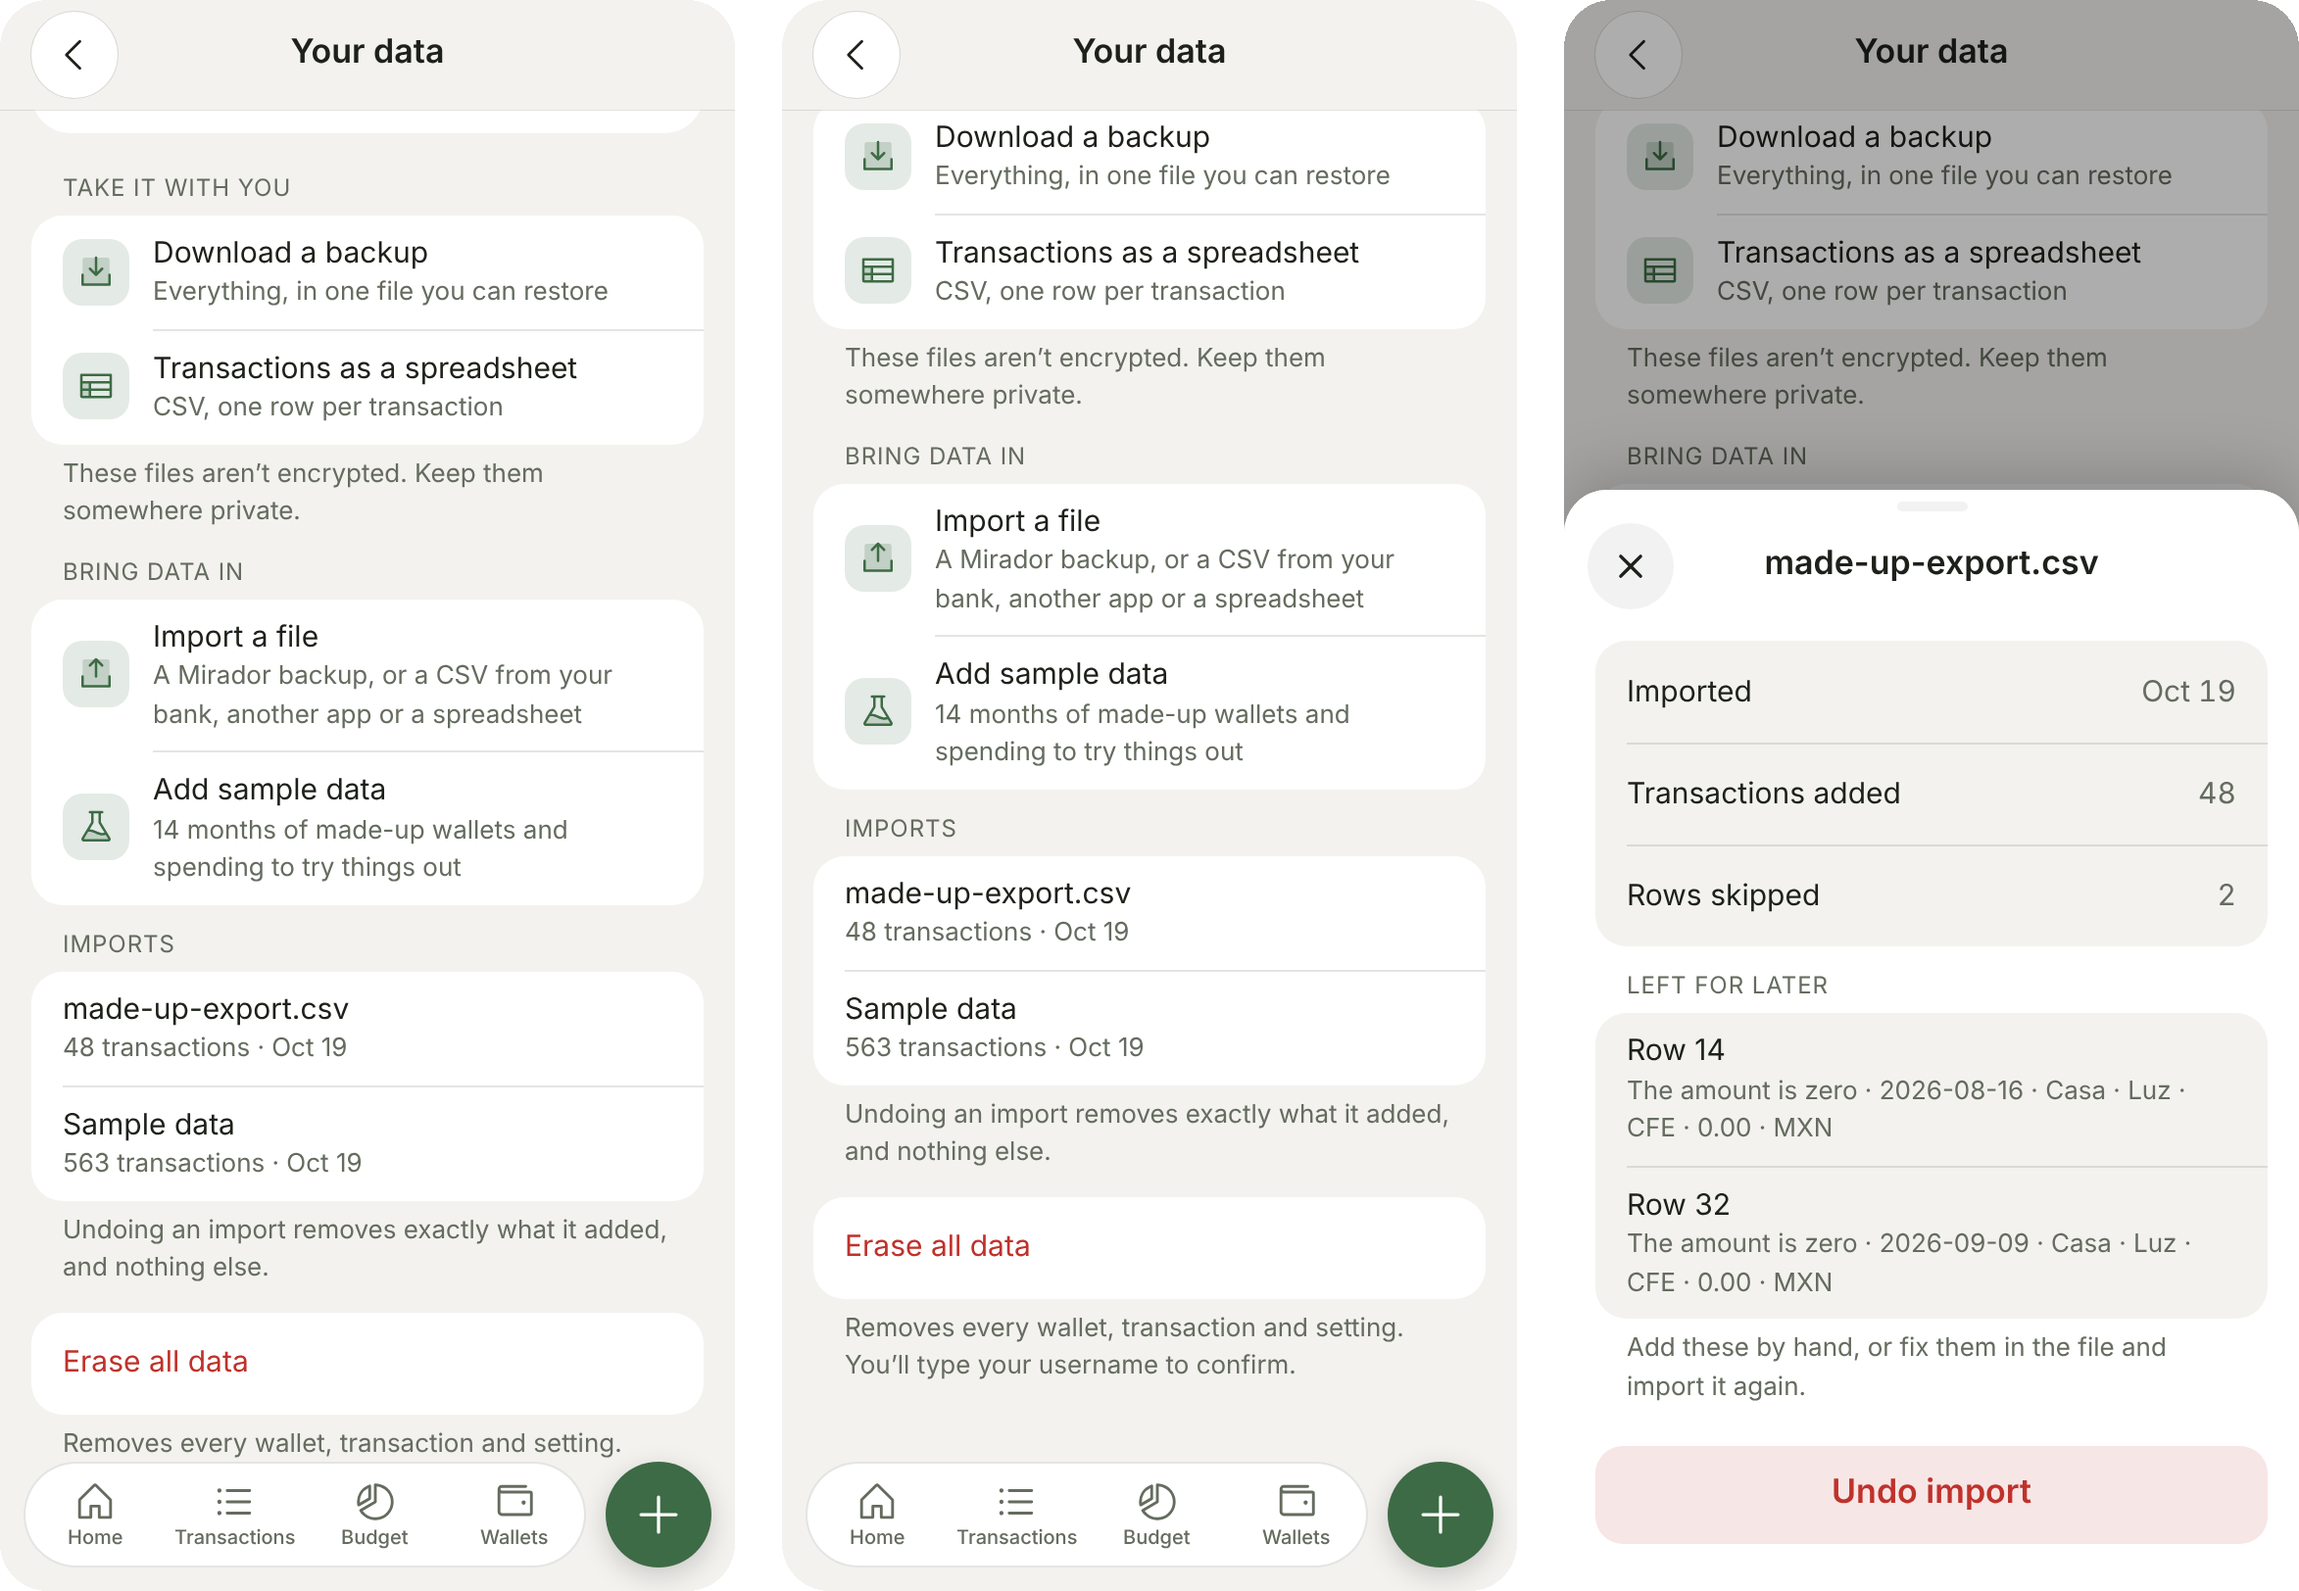
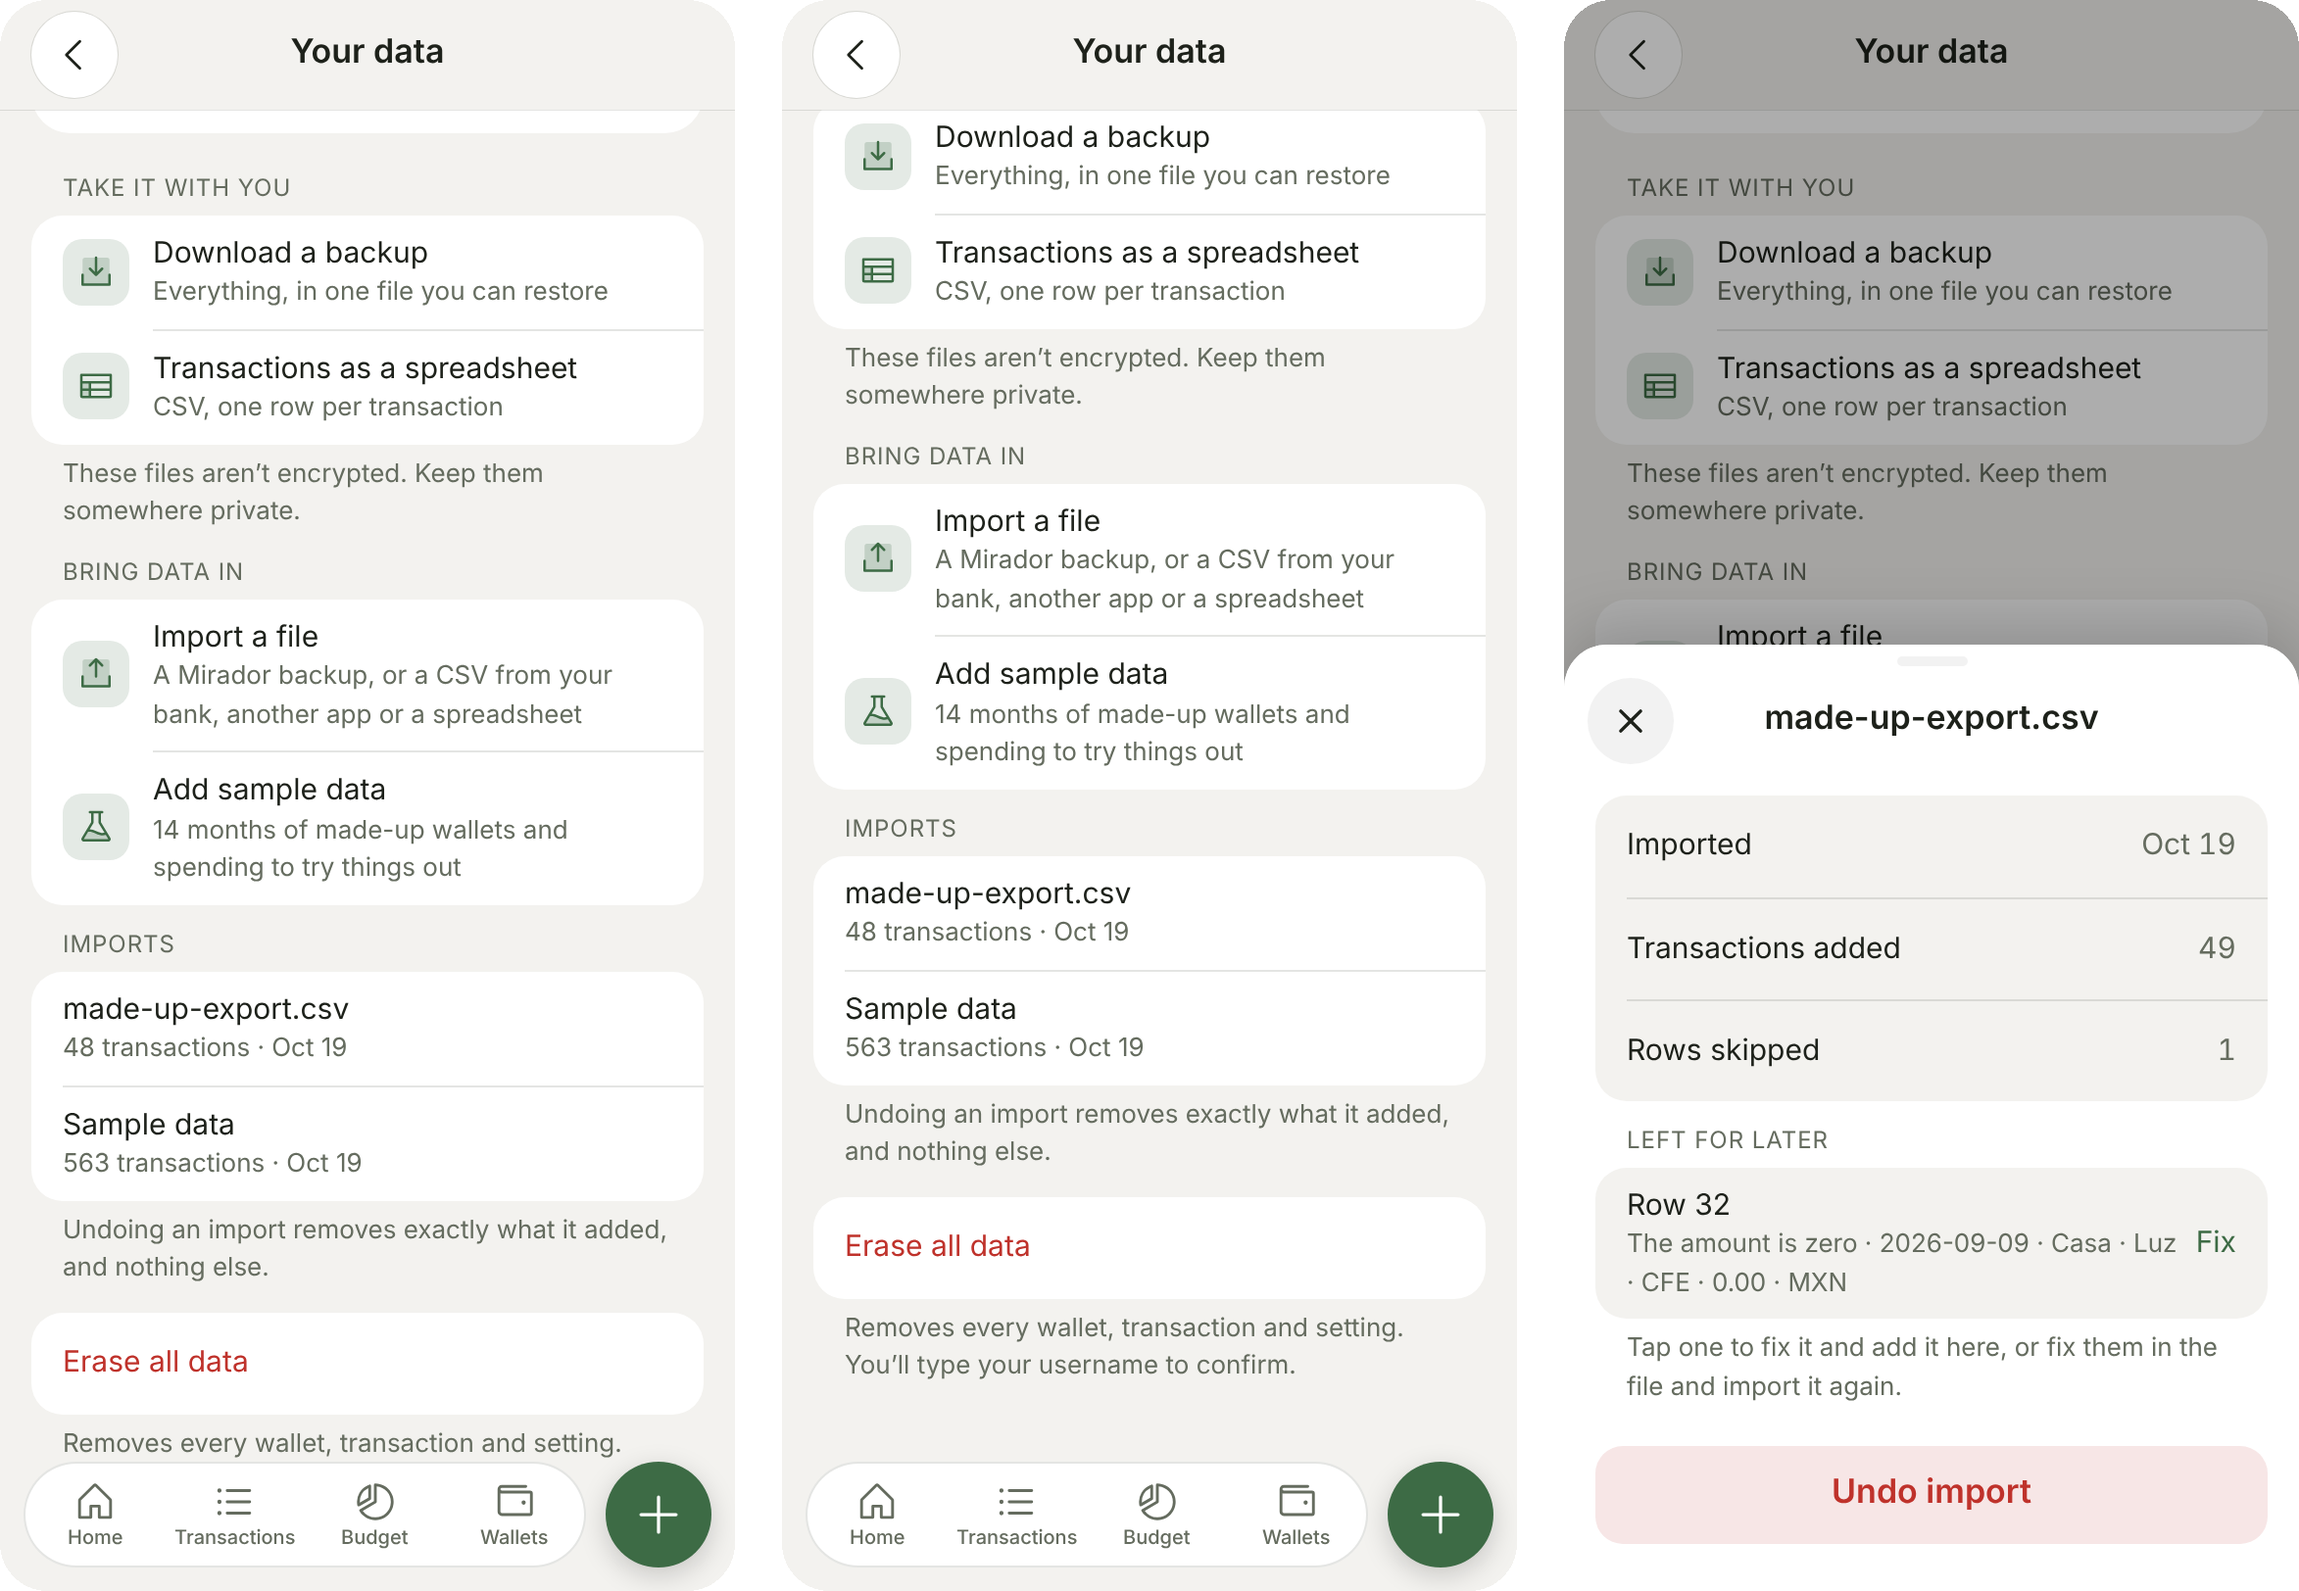
feat(import): fix rows an import left for later from the import itself
Each row under "Left for later" opens the transaction form filled in
with what could be read (date, amount, wallet, category, note). Saving
adds it to that import, so undoing the import removes it too, and takes
it off the list.

Refs: IMP-31, IMP-33

diff --git a/apps/web/src/features/data/data-screen.tsx b/apps/web/src/features/data/data-screen.tsx
@@ -29,8 +29,9 @@ import { List, ListButtonRow } from '../../components/ui/list'
 import { Page } from '../../components/ui/page'
 import { Sheet } from '../../components/ui/sheet'
 import { formatShortDate, useLocale } from '../../lib/format'
+import { EntrySheet } from '../transactions/entry-sheet'
 import { newId, useLedger, useSaveRecords } from '../wallets/use-ledger'
-import { BatchSheet, EraseSheet, RestoreSheet } from './data-sheets'
+import { BatchSheet, EraseSheet, RestoreSheet, type WaitingRow } from './data-sheets'
 import { buildChanges, currencyOf, type ImportFile } from './import-model'
 import { DoneStep, type ImportDone, ImportSheet } from './import-sheet'
 import { downloadSpreadsheet, useDownloadBackup, useUndoImport } from './use-data'
@@ -52,6 +53,8 @@ export function DataScreen() {
   const [again, setAgain] = useState<{ file: ImportFile; date: string } | null>(null)
   const [archive, setArchive] = useState<{ name: string; result: ArchiveResult } | null>(null)
   const [batchId, setBatchId] = useState<string | null>(null)
+  // IMP-33: a row an import left for later, opened in the transaction form.
+  const [fixing, setFixing] = useState<{ batchId: string; row: WaitingRow } | null>(null)
   const [erasing, setErasing] = useState(false)
   const [unreadable, setUnreadable] = useState(false)
   const [sampleDone, setSampleDone] = useState<ImportDone | null>(null)
@@ -322,8 +325,26 @@ export function DataScreen() {
             batch={ledger.batches.find((batch) => batch.id === batchId) ?? null}
             pending={undo.isPending}
             onUndo={undoBatch}
+            onFix={(row) => {
+              if (batchId) setFixing({ batchId, row })
+              setBatchId(null)
+            }}
             onClose={() => {
               setBatchId(null)
+            }}
+          />
+          <EntrySheet
+            open={fixing !== null}
+            mode={{
+              kind: 'new',
+              source: 'import',
+              seed: fixing ? waitingSeed(fixing.row) : {},
+              ...(fixing ? { fromImport: { batchId: fixing.batchId, line: fixing.row.line } } : {}),
+            }}
+            onClose={() => {
+              // Back to the import, to fix the next one.
+              setBatchId(fixing?.batchId ?? null)
+              setFixing(null)
             }}
           />
           <EraseSheet
@@ -336,4 +357,16 @@ export function DataScreen() {
       )}
     </Page>
   )
+}
+
+/** What the form starts with for a row left for later: whatever could be read. */
+function waitingSeed(row: WaitingRow) {
+  return {
+    type: row.amount !== undefined && row.amount > 0 ? ('income' as const) : ('expense' as const),
+    ...(row.amount !== undefined ? { amount: Math.abs(row.amount) } : {}),
+    ...(row.date ? { date: row.date } : {}),
+    ...(row.walletId ? { walletId: row.walletId } : {}),
+    ...(row.categoryId ? { categoryId: row.categoryId } : {}),
+    ...(row.note ? { note: row.note } : {}),
+  }
 }

diff --git a/apps/web/src/features/transactions/entry-sheet.tsx b/apps/web/src/features/transactions/entry-sheet.tsx
@@ -1,4 +1,6 @@
 import {
+  importBatchRecord,
+  importBatchRecordType,
   payeeRecord,
   payeeRecordType,
   recurringRecord,
@@ -91,6 +93,8 @@ export type EntryMode =
       source: TransactionSource
       seed?: Partial<EntryDraft>
       repeat?: Repeat
+      /** IMP-33: a row an import left for later, added by hand into that import. */
+      fromImport?: { batchId: string; line: number }
     }
   | { kind: 'edit'; transaction: Transaction & { kind: EntryType } }
   | { kind: 'series'; recurring: Recurring }
@@ -604,9 +608,19 @@ function EntryForm({
                   : {}),
               }
             : entryFields(entry, mode.kind === 'new' ? mode.source : 'manual', now)
+        const fromImport = mode.kind === 'new' ? mode.fromImport : undefined
+        const batch = fromImport && ledger.batches.find((item) => item.id === fromImport.batchId)
         changes = [
           ...extras(fields),
-          { id, body: transactionBody(transactionRecord.parse(fields)) },
+          {
+            id,
+            body: transactionBody(
+              transactionRecord.parse(batch ? { ...fields, importBatchId: batch.id } : fields),
+            ),
+          },
+          // IMP-33, IMP-35: the row is no longer waiting, and undoing the import
+          // removes it with the rest.
+          ...(fromImport && batch ? [fixedRow(batch, fromImport.line)] : []),
         ]
       }
       save.mutate(changes, {
@@ -1013,7 +1027,7 @@ function EntryForm({
             >
               {t('recurring.skip')}
             </Button>
-          ) : mode.kind === 'new' && !repeating ? (
+          ) : mode.kind === 'new' && !repeating && !mode.fromImport ? (
             // DL-CMP-05: a tinted second action beside the main one.
             <Button
               variant="secondary"
@@ -1162,4 +1176,23 @@ function EntryForm({
       />
     </>
   )
+}
+
+/** An import batch with one row it left for later now added. */
+function fixedRow(batch: Ledger['batches'][number], line: number): RecordChange {
+  const { id, ...data } = batch
+  const waiting = data.waiting.filter((row) => row.line !== line)
+  const added = data.waiting.length - waiting.length
+  return {
+    id,
+    body: recordBody(
+      importBatchRecordType,
+      importBatchRecord.parse({
+        ...data,
+        waiting,
+        imported: data.imported + added,
+        skipped: Math.max(0, data.skipped - added),
+      }),
+    ),
+  }
 }

diff --git a/apps/web/src/features/data/data-sheets.tsx b/apps/web/src/features/data/data-sheets.tsx
@@ -9,7 +9,7 @@ import { Button } from '../../components/ui/button'
 import { ChoiceRow } from '../../components/ui/choice-row'
 import { IconTile } from '../../components/ui/icon-tile'
 import { FileTextIcon } from '../../components/ui/icons'
-import { List, ListRow } from '../../components/ui/list'
+import { List, ListButtonRow, ListRow } from '../../components/ui/list'
 import { Sheet } from '../../components/ui/sheet'
 import { TextField } from '../../components/ui/text-field'
 import { formatShortDate, useLocale } from '../../lib/format'
@@ -214,16 +214,23 @@ export function RestoreSheet({
   )
 }
 
-/** IMP-34, IMP-35: one import, what it did, the rows left for later, and its undo. */
+export type WaitingRow = ImportBatchRecord['waiting'][number]
+
+/**
+ * IMP-34, IMP-35: one import, what it did, and its undo. IMP-33: the rows it left for
+ * later, each opening the transaction form filled in with what could be read.
+ */
 export function BatchSheet({
   batch,
   pending,
   onUndo,
+  onFix,
   onClose,
 }: {
   batch: (ImportBatchRecord & { id: string }) | null
   pending: boolean
   onUndo: (batchId: string) => void
+  onFix: (row: WaitingRow) => void
   onClose: () => void
 }) {
   const { t } = useTranslation()
@@ -255,10 +262,17 @@ export function BatchSheet({
             <>
               <List inset label={t('data.batch.waiting')}>
                 {batch.waiting.slice(0, 50).map((row) => (
-                  <ListRow
+                  <ListButtonRow
                     key={row.line}
+                    tone="text"
                     title={t('data.review.row', { line: number(row.line) })}
                     subtitle={`${t(`data.problems.${row.problem}`)}${row.text ? ` · ${row.text}` : ''}`}
+                    trailing={
+                      <span className="text-[0.9375rem] text-brand">{t('data.batch.fix')}</span>
+                    }
+                    onClick={() => {
+                      onFix(row)
+                    }}
                   />
                 ))}
               </List>

diff --git a/packages/import/src/build.ts b/packages/import/src/build.ts
@@ -198,8 +198,23 @@ export function buildImport(input: BuildInput): BuildResult {
     const { row, status } = item
     const walletId = walletIds.get(item.walletKey)
     if (status.kind === 'unreadable' || !walletId || row.date === null || row.amount === null) {
-      if (status.kind === 'unreadable')
-        waiting.push({ line: row.line, problem: status.problem, text: row.text })
+      if (status.kind === 'unreadable') {
+        const categoryId =
+          (item.categoryKey !== null ? categoryIds.get(item.categoryKey) : undefined) ??
+          item.suggestedCategoryId ??
+          undefined
+        const note = row.note || row.payee
+        waiting.push({
+          line: row.line,
+          problem: status.problem,
+          text: row.text,
+          ...(row.date !== null ? { date: row.date } : {}),
+          ...(row.amount !== null && row.amount !== 0 ? { amount: row.amount } : {}),
+          ...(walletId ? { walletId } : {}),
+          ...(categoryId ? { categoryId } : {}),
+          ...(note ? { note: note.slice(0, 500) } : {}),
+        })
+      }
       skipped += 1
       continue
     }

diff --git a/packages/import/src/import.test.ts b/packages/import/src/import.test.ts
@@ -236,6 +236,11 @@ describe('importing', () => {
       skipped: 1,
       waiting: [{ line: 5, problem: 'zero' }],
     })
+    // IMP-33: what could be read, so the row opens filled in when it is fixed.
+    expect(result.batch.waiting[0]).toMatchObject({ date: '2026-07-12', walletId })
+    // Pharmacy is used only by that row, so no category was made for it.
+    expect(result.batch.waiting[0]?.categoryId).toBeUndefined()
+    expect(result.batch.waiting[0]?.amount).toBeUndefined()
     const transactions = result.changes.filter(
       (c) => !c.body.deleted && c.body.type === 'transaction',
     )

diff --git a/packages/api/src/imports.ts b/packages/api/src/imports.ts
@@ -38,6 +38,12 @@ export const importBatchRecord = z.object({
         line: z.int().positive(),
         problem: z.enum(rowProblems),
         text: z.string().max(300),
+        // What could be read, so the row opens filled in when the person fixes it.
+        date: calendarDate.optional(),
+        amount: z.int().optional(),
+        walletId: recordId.optional(),
+        categoryId: recordId.optional(),
+        note: z.string().max(500).optional(),
       }),
     )
     .max(2000),
